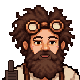
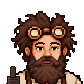
Glenns hattar omritade, toppknapparna på samma plats på alla sidor
Claude-Session: https://claude.ai/code/session_01PEFnyMQFqKgaJqWGZT8Rs3

diff --git a/app.js b/app.js
@@ -1140,7 +1140,7 @@ const AI_NAME = "Glenn";
    en stund när svaret kommer och medan det läses upp. Munnen rör sig bara när han pratar. */
 const GLENN_FRAMES = ["base", "base-talk", "wink", "wink-talk", "thumb", "thumb-talk"];
 // Små bilder (ansikte och axlar) och hela Glenn (i röstläget).
-const glennSrc = (f, full = false) => `icons/glenn/${full ? "full-" : ""}${f}.png?v=2`;
+const glennSrc = (f, full = false) => `icons/glenn/${full ? "full-" : ""}${f}.png?v=3`;
 
 /* Glenns väder och kläder. Bakgrunden visar vädret där man är (Open-Meteo, utan nyckel), och Glenn klär sig
    efter det: sydväst i regn, mössa i snö och kyla, solglasögon när det är soligt och varmt. På högtider har han
@@ -1178,7 +1178,7 @@ function glennLook() {
 // Glenn med bakgrund och kläder. img är bilden av Glenn (som byts när han blinkar, pratar med mera).
 function glennFig(img, full = false, cls = "") {
   const L = glennLook();
-  const style = [`--sky:url(icons/glenn/sky-${L.sky}.png?v=2)`, L.acc ? `--acc:url(icons/glenn/acc-${full ? "full-" : ""}${L.acc}.png?v=2)` : "", L.fx ? `--fx:url(icons/glenn/fx-${L.fx}.png?v=2)` : ""].filter(Boolean).join(";");
+  const style = [`--sky:url(icons/glenn/sky-${L.sky}.png?v=3)`, L.acc ? `--acc:url(icons/glenn/acc-${full ? "full-" : ""}${L.acc}.png?v=3)` : "", L.fx ? `--fx:url(icons/glenn/fx-${L.fx}.png?v=3)` : ""].filter(Boolean).join(";");
   return `<span class="gfig${full ? " full" : ""}${L.fx ? ` fx-${L.fx}` : ""}${cls ? ` ${cls}` : ""}" style="${style}">${img}</span>`;
 }
 // Vädret där man är, högst en gång i halvtimmen. Platsen används bara om appen redan har fått lov.

diff --git a/style.css b/style.css
@@ -1753,3 +1753,6 @@ body.has-tripbar .toast-msg { bottom: calc(176px + env(safe-area-inset-bottom, 0
 /* Cirkeln i röstläget krymper aldrig, så att den alltid är rund (eller kvadratisk i Glenns teman). */
 .voice-orb { flex: none; aspect-ratio: 1; height: auto; max-height: 38vh; width: auto; }
 .voice-orb { width: min(170px, 38vh); }
+/* Toppknapparna står alltid längst till höger, på samma ställe på alla sidor (även med tillbaka-pil). */
+.top .top-actions { margin-left: auto; flex: none; }
+.top .hello { flex: 1 1 auto; }

diff --git a/sw.js b/sw.js
@@ -1,5 +1,5 @@
 // Service worker: gör att appen startar även utan nät och kan visa notiser.
-const CACHE = "bildagboken-v216";
+const CACHE = "bildagboken-v217";
 const SHELL = [
   "./",
   "./index.html",
